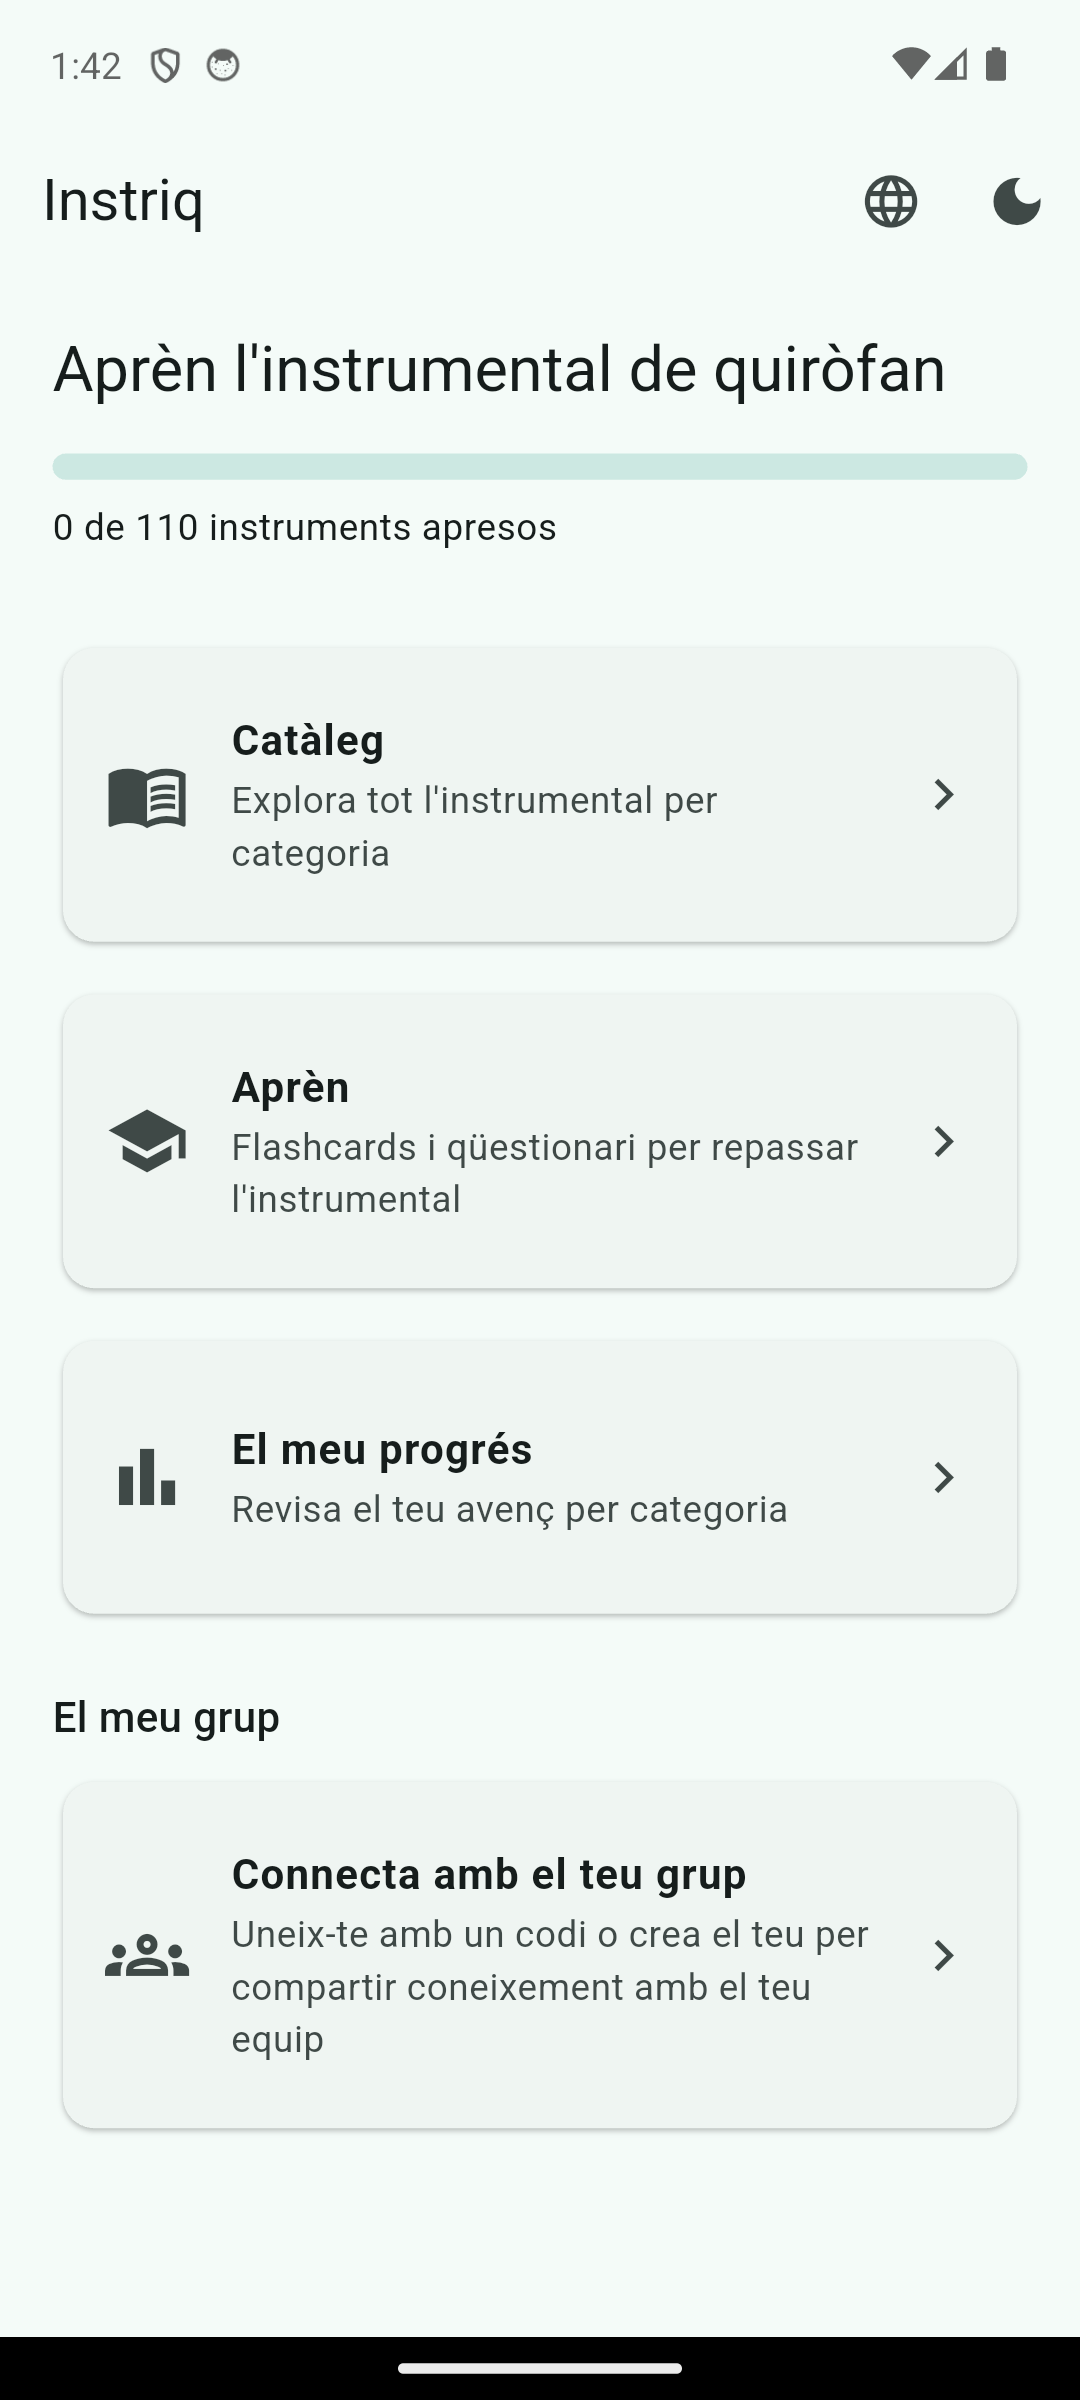
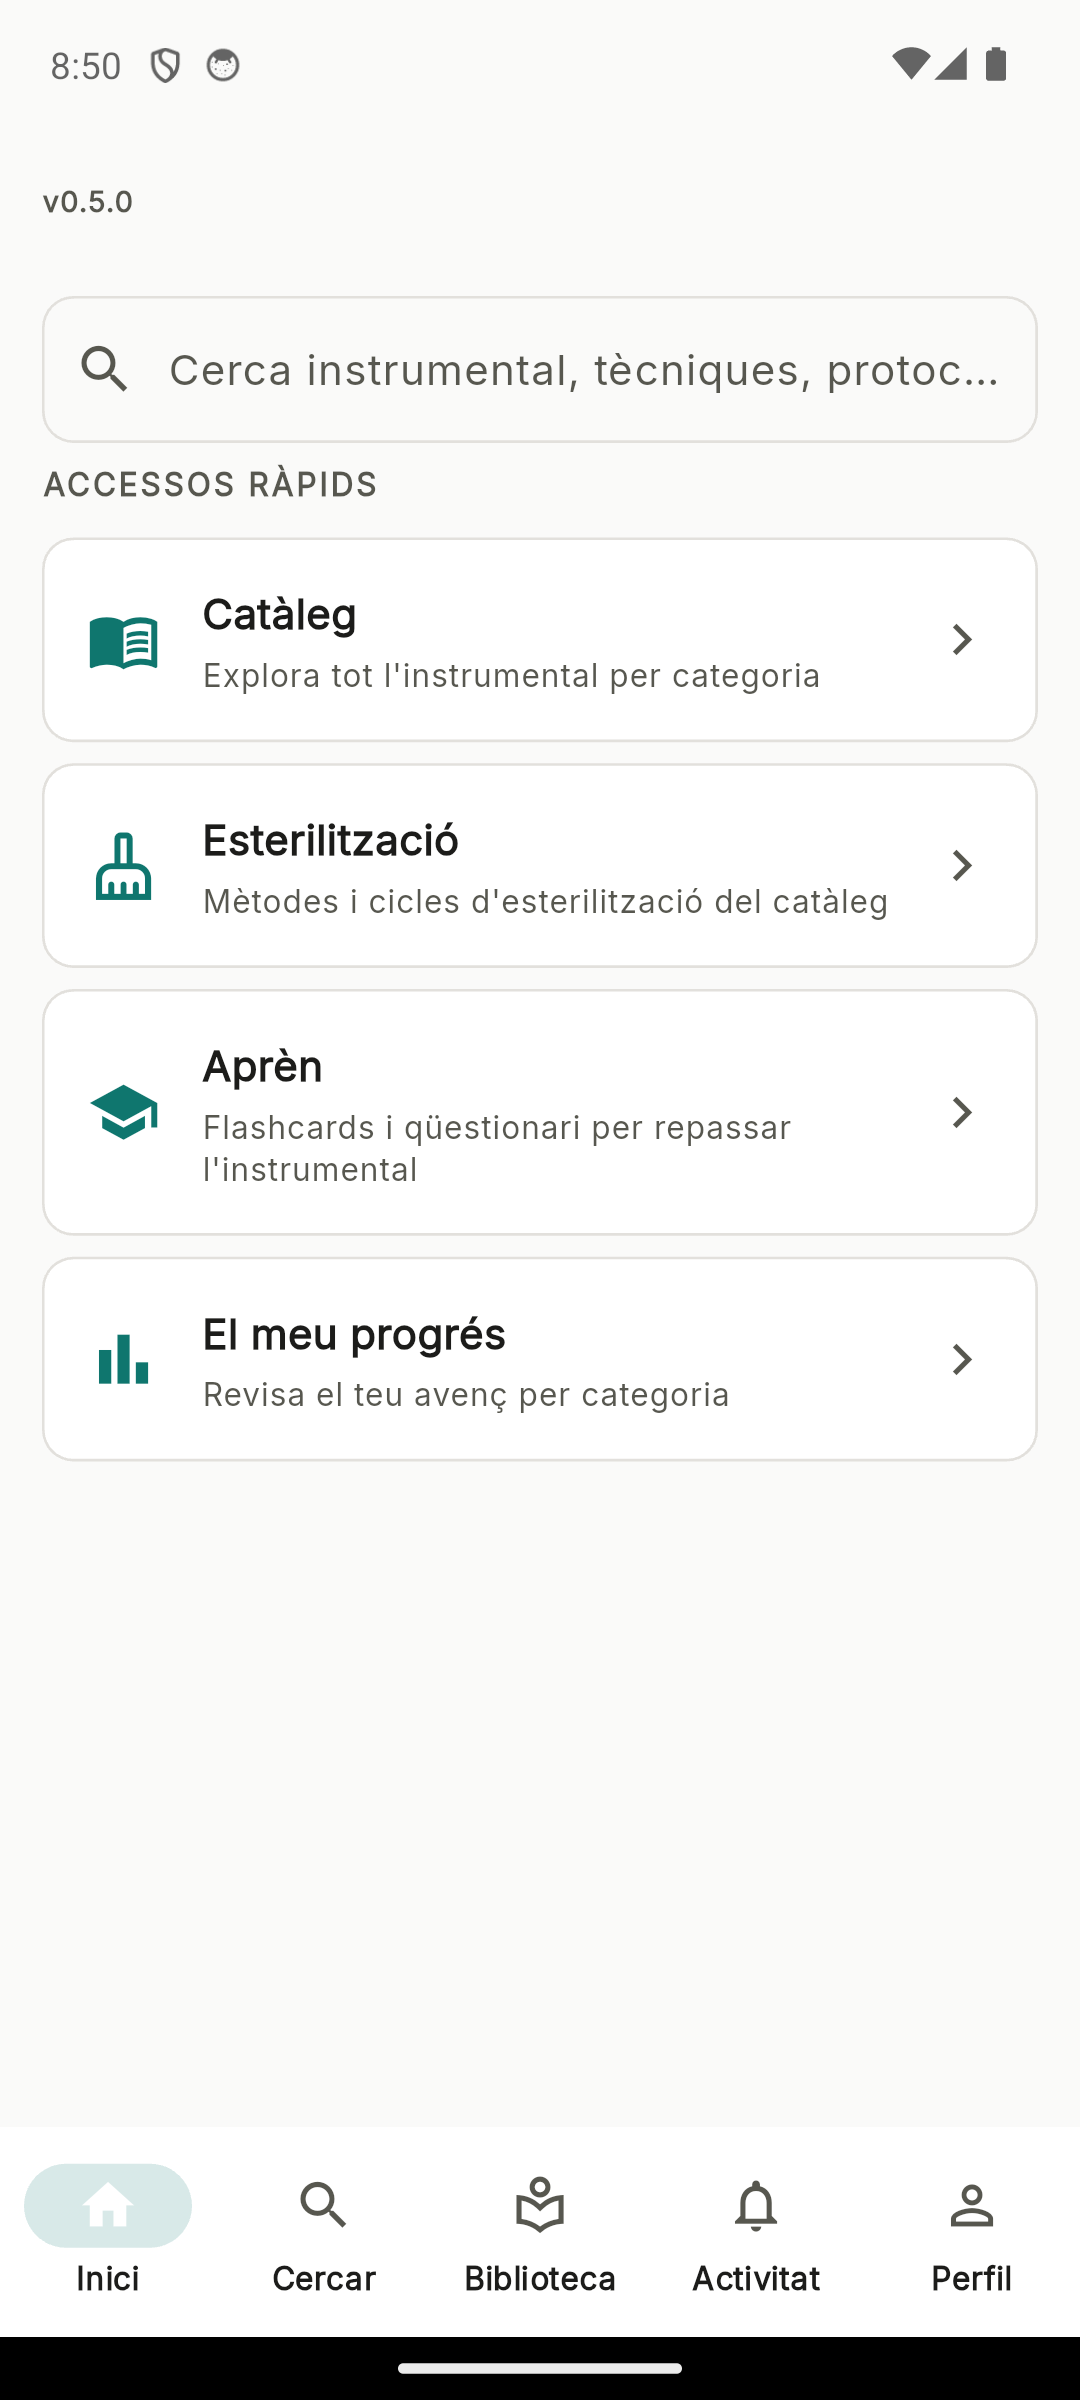
docs(landing): novetats Fase A/B + captures actualitzades (disseny propi, cerca a Inici)
Afegeix les entrades #22/#23 al timeline (design system + navegacio
responsive; Mode de Treball + inici centrat en cerca) i substitueix les
captures de catalog/instrument per l'aspecte actual, afegint una tercera
captura de la nova pantalla d'Inici.

diff --git a/landing/index.html b/landing/index.html
@@ -234,6 +234,10 @@
     <p class="lede measure" style="margin-left:auto;margin-right:auto;" data-i18n="hoy.lede">L'aprenentatge bàsic funciona com a convidat. Només cal compte si el teu grup vol compartir el seu propi coneixement.</p>
     <div class="showcase">
       <figure>
+        <img src="screenshots/home.png" alt="Pantalla d'inici amb cercador global" width="260">
+        <figcaption data-i18n="hoy.fig0">Inici centrat en un cercador global.</figcaption>
+      </figure>
+      <figure>
         <img src="screenshots/catalogo.png" alt="Catàleg d'instrumental filtrat per especialitat" width="260">
         <figcaption data-i18n="hoy.fig1">Catàleg amb fotos reals per especialitat.</figcaption>
       </figure>
@@ -266,7 +270,7 @@
         <button class="timeline-btn" id="tlPrev" type="button" aria-label="Anterior">‹</button>
         <div class="timeline-track-wrap">
           <div class="timeline-rail"><div class="timeline-fill" id="tlFill"></div></div>
-          <input class="timeline-slider" id="tlSlider" type="range" min="0" max="25" value="0" step="1" aria-label="Línia del temps d'Instriq">
+          <input class="timeline-slider" id="tlSlider" type="range" min="0" max="27" value="0" step="1" aria-label="Línia del temps d'Instriq">
         </div>
         <button class="timeline-btn" id="tlNext" type="button" aria-label="Següent">›</button>
       </div>
@@ -429,7 +433,7 @@
       "valores.c4t": "Estándares abiertos", "valores.c4p": "Buscamos alinearnos con estándares reconocidos del sector (HL7, FHIR, DICOM) según el proyecto lo necesite.",
       "hoy.eyebrow": "Disponible hoy", "hoy.h1": "Sin cuenta, sin fricción.",
       "hoy.lede": "El aprendizaje básico funciona como invitado. Solo hace falta cuenta si tu grupo quiere compartir su propio conocimiento.",
-      "hoy.fig1": "Catálogo con fotos reales por especialidad.", "hoy.fig2": "Ficha de instrumental con foto y nombres comerciales.",
+      "hoy.fig0": "Inicio centrado en un buscador global.", "hoy.fig1": "Catálogo con fotos reales por especialidad.", "hoy.fig2": "Ficha de instrumental con foto y nombres comerciales.",
       "hoy.c1t": "Catálogo", "hoy.c1p": "+70 instrumentos organizados por 9 especialidades y por categoría funcional, con nombres comerciales y fabricante.",
       "hoy.c2t": "Aprende", "hoy.c2p": "Flashcards y quiz de repaso, con progreso guardado en tu propio dispositivo.",
       "hoy.c3t": "Tarjetas de preferencia", "hoy.c3p": "Instrumental específico por cirujano y procedimiento, compartido y validado dentro de tu grupo.",
@@ -483,7 +487,7 @@
       "valores.c4t": "Open standards", "valores.c4p": "We aim to align with recognized industry standards (HL7, FHIR, DICOM) as the project needs.",
       "hoy.eyebrow": "Available today", "hoy.h1": "No account, no friction.",
       "hoy.lede": "Basic learning works as a guest. An account is only needed if your group wants to share its own knowledge.",
-      "hoy.fig1": "Catalog with real photos by specialty.", "hoy.fig2": "Instrument entry with photo and trade names.",
+      "hoy.fig0": "A home screen centered on global search.", "hoy.fig1": "Catalog with real photos by specialty.", "hoy.fig2": "Instrument entry with photo and trade names.",
       "hoy.c1t": "Catalog", "hoy.c1p": "70+ instruments organized by 9 specialties and by functional category, with trade names and manufacturer.",
       "hoy.c2t": "Learn", "hoy.c2p": "Flashcards and review quizzes, with progress saved on your own device.",
       "hoy.c3t": "Preference cards", "hoy.c3p": "Instruments specific to surgeon and procedure, shared and validated within your group.",
@@ -525,8 +529,8 @@
   });
   CA_DEFAULTS['meta.title'] = document.title;
 
-  // Timeline interactiu de novetats: 1 origen + 21 desplegaments + 4 previstos.
-  var TIMELINE_SHIPPED = 22; // origen (índex 0) + 21 novetats (índexs 1-21)
+  // Timeline interactiu de novetats: 1 origen + 23 desplegaments + 4 previstos.
+  var TIMELINE_SHIPPED = 24; // origen (índex 0) + 23 novetats (índexs 1-23)
   var TL = {
     ca: [
       { badge: 'Origen', text: '<strong>Neix Instriq</strong> — de la idea d\'una parella: un enginyer informàtic i una infermera de quiròfan, cansada de veure el coneixement del bloc quirúrgic viure en carpetes de paper desactualitzades.' },
@@ -551,6 +555,8 @@
       { badge: '#19', text: '<strong>Perfil professional</strong> — tria instrumentista, supervisió, esterilització, infermeria, cirurgià, estudiant o docent, i la fitxa de cada instrument reordena el que et interessa veure primer, sense amagar res.' },
       { badge: '#20', text: '<strong>Esterilització estructurada</strong> — cada instrument pot portar un o diversos mètodes d\'esterilització amb els seus paràmetres, més fitxa tècnica (fabricant, IFU, manteniment, vida útil).' },
       { badge: '#21', text: '<strong>Bandejes d\'instrumental</strong> — sets de material amb checklist de quantitats, fotos, versionat i aprovació, per verificar caixes completes després del rentat i l\'esterilització.' },
+      { badge: '#22', text: '<strong>Disseny propi i navegació responsive</strong> — nou sistema visual (tipografia, color, espaiats) i una única experiència amb barra lateral a l\'escriptori i navegació inferior al mòbil, la mateixa a totes les pantalles.' },
+      { badge: '#23', text: '<strong>Mode de Treball i inici centrat en la cerca</strong> — el perfil professional dona pas a un mode de treball únic i actiu, canviable a l\'instant des de la capçalera; la pantalla d\'inici ara comença per un cercador global, amb activitat recent i favorits.' },
       { badge: 'Previst', future: true, text: 'Publicació a Google Play.' },
       { badge: 'Previst', future: true, text: 'Sincronitzar el progrés d\'aprenentatge al núvol.' },
       { badge: 'Previst', future: true, text: 'Mode sense connexió per a les bandejes.' },
@@ -579,6 +585,8 @@
       { badge: '#19', text: '<strong>Perfil profesional</strong> — elige instrumentista, supervisión, esterilización, enfermería, cirujano, estudiante o docente, y la ficha de cada instrumento reordena lo que más te interesa ver primero, sin ocultar nada.' },
       { badge: '#20', text: '<strong>Esterilización estructurada</strong> — cada instrumento puede llevar uno o varios métodos de esterilización con sus parámetros, más ficha técnica (fabricante, IFU, mantenimiento, vida útil).' },
       { badge: '#21', text: '<strong>Bandejas de instrumental</strong> — sets de material con checklist de cantidades, fotos, versionado y aprobación, para verificar cajas completas tras el lavado y la esterilización.' },
+      { badge: '#22', text: '<strong>Diseño propio y navegación responsive</strong> — nuevo sistema visual (tipografía, color, espaciados) y una única experiencia con barra lateral en escritorio y navegación inferior en móvil, la misma en todas las pantallas.' },
+      { badge: '#23', text: '<strong>Modo de Trabajo e inicio centrado en la búsqueda</strong> — el perfil profesional da paso a un modo de trabajo único y activo, cambiable al instante desde la cabecera; la pantalla de inicio ahora empieza con un buscador global, con actividad reciente y favoritos.' },
       { badge: 'Previsto', future: true, text: 'Publicación en Google Play.' },
       { badge: 'Previsto', future: true, text: 'Sincronizar el progreso de aprendizaje en la nube.' },
       { badge: 'Previsto', future: true, text: 'Modo sin conexión para las bandejas.' },
@@ -607,6 +615,8 @@
       { badge: '#19', text: '<strong>Professional profile</strong> — choose scrub nurse, supervision, sterilization, nursing, surgeon, student or teacher, and each instrument\'s page reorders what matters most to you first, without hiding anything.' },
       { badge: '#20', text: '<strong>Structured sterilization</strong> — each instrument can carry one or more sterilization methods with their own parameters, plus technical info (manufacturer, IFU, maintenance, useful life).' },
       { badge: '#21', text: '<strong>Instrument trays</strong> — sets of equipment with a quantity checklist, photos, versioning and approval, to verify complete trays after washing and sterilization.' },
+      { badge: '#22', text: '<strong>Own design system and responsive navigation</strong> — a new visual system (typography, color, spacing) and a single experience with a sidebar on desktop and bottom navigation on mobile, the same on every screen.' },
+      { badge: '#23', text: '<strong>Work Mode and a search-first home</strong> — the professional profile gives way to a single active work mode, switchable instantly from the header; the home screen now opens with a global search bar, recent activity and favorites.' },
       { badge: 'Planned', future: true, text: 'Google Play release.' },
       { badge: 'Planned', future: true, text: 'Syncing learning progress to the cloud.' },
       { badge: 'Planned', future: true, text: 'Offline mode for trays.' },
